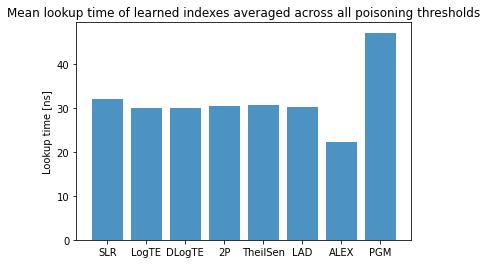
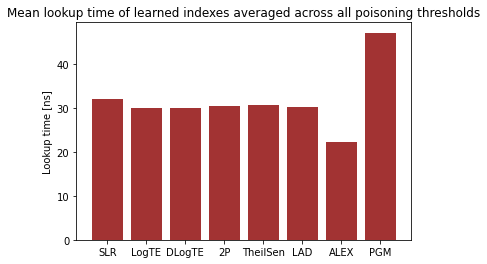
update blog post

Changed region(s): [[0.1848, 0.1212, 0.8316, 0.9091]]

diff --git a/_posts/2022-01-25-testing-the-robustness-of-learned-index-structures.md b/_posts/2022-01-25-testing-the-robustness-of-learned-index-structures.md
@@ -1,0 +1,73 @@
+---
+title: 'Testing the robustness of learned index structures'
+date: 2022-01-21
+permalink: /posts/2022/01/testing_the_robustness_of_learned_index_structures/
+tags:
+  - learned indexes
+  - database
+  - ALEX
+  - PGM
+  - machine learning
+---
+
+The database community has recently seen a massive surge in research to replace traditional database indexes such as B+ Trees with machine learning models (also called "learned index structures") to facilitate fast data retrieval.
+
+Databases rely on indexes to quickly locate and retrieve data that is stored on disks. While traditional database indexes use tree data structures such as B+ Trees to find the position of a given query key in the index, a learned index structure considers this problem as a prediction task and uses a machine learning model to “predict” the position of the query key. 
+
+Traditional and learned indexes                | ML models to approximate the CDF
+:---------------------------------------------:|:---------------------------------------------:
+![](/images/learned_indexes-comparison_1.png)  |  ![](/images/learned_indexes-comparison_2.png)
+
+This novel approach of implementing database indexes has inspired a surge of recent research aimed at studying the effectiveness of learned index structures. However, while the main advantage of learned index structures is their ability to adjust to the data via their underlying ML model, this also carries the risk of exploitation by a malicious adversary.
+
+This post will show some experiments that I have conducted as a follow-up to the research on [adversarial machine learning in the context of learned index structures](/publication/2021-12-08-adversarial-workload-matters) that was part of my master's thesis at The University of Melbourne.
+
+{% include toc %}
+
+# Previous work on "Executing a Large-Scale Poisoning Attack against Learned Index Structures"
+
+In my [master's thesis](/publication/2021-12-08-adversarial-workload-matters), I have executed a large-scale poisoning attack on dynamic learned index structures based on the CDF poisoning attack proposed by [Kornaropoulos et al.](https://arxiv.org/abs/2008.00297) The poisoning attack targets linear regression models and works by manipulating the cumulative distribution function (CDF) on which the model is trained. The attack deteriorates the fit of the underlying ML model by injecting a set of poisoning keys into the dataset, which leads to an increase in the prediction error of the model and thus deteriorates the overall performance of the learned index structure. The source code for the poisoning attack is available on [GitHub](https://github.com/Bachfischer/adversarial-ml-for-learned-indexes).
+
+As part of the experiments for my master's thesis, I evaluated three index implementations by measuring their throughput in million operations per second. The evaluated indexes consist of two learned index structures [ALEX](https://github.com/microsoft/ALEX) and [Dynamic-PGM](https://pgm.di.unipi.it/) as well as a traditional B+ Tree. Because indexes are usually used to speed-up data retrieval when dealing with massive amount of data, I chose to evaluate the performance of the indexes based on the [SOSD benchmark datasets](https://github.com/learnedsystems/SOSD/) that consist of 200 million keys each.
+
+Unfortunately, executing the poisoning attack by Kornaropoulos et al. is heavily computationally intensive, so I had to run them with a fixed poisoning threshold of $p=0.0001$, thus generating 20,000 poisoning keys for a dataset of 200 million keys. However, this poisoning threshold can be considered to be relatively low, and previous work on poisoning attacks has used poisoning thresholds of up-to $p=0.02$. 
+
+# Implementing a flexible microbenchmark for learned indexes
+
+To test the robustness of learned indexes more rigorously, I have decided to set-up a flexible microbenchmark that can be used to quickly evaluate the robustness of different index implementations against poisoning attacks. The microbenchmark is based on the source code that was published by [Eppert et al.](https://db.in.tum.de/~fent/papers/LogarithmicError.pdf?lang=en) which I have extended to implement the CDF poisoning attack against different types of regression models and the learned index implementations [ALEX](https://github.com/microsoft/ALEX) and [PGM-Index](https://pgm.di.unipi.it/).
+
+**The corresponding source code can be found here: [https://github.com/Bachfischer/LogarithmicErrorRegression](https://github.com/Bachfischer/LogarithmicErrorRegression).**
+
+# Testing the robustness of learned indexes
+
+![](/images/learned_indexes-data_pipeline.png)
+
+To test the robustness of the learned indexes, I have generated a synthetic dataset of 1000 keys and ran the poisoning attack against each index implementation while varying the poisoning threshold from $p=0.01$ to $p=0.20$. 
+
+The graphs below show the performance deterioration calculated as the ratio between the *mean lookup time in nanoseconds* for the legitimate (non-poisoned) dataset and the poisoned dataset. 
+
+SLR                                            | LogTE                                         | DLogTE                                        | 2P
+:---------------------------------------------:|:---------------------------------------------:|:---------------------------------------------:|:---------------------------------------------:
+![](/images/learned_indexes-mean_lookup_time-deterioration_slr.png)  | ![](/images/learned_indexes-mean_lookup_time-deterioration_logte.png) | ![](/images/learned_indexes-mean_lookup_time-deterioration_dlogte.png) |  ![](/images/learned_indexes-mean_lookup_time-deterioration_2p.png)
+
+TheilSen                                       | LAD                                           | ALEX                                          | PGM
+:---------------------------------------------:|:---------------------------------------------:|:---------------------------------------------:|:---------------------------------------------:
+![](/images/learned_indexes-mean_lookup_time-deterioration_theilsen.png)  | ![](/images/learned_indexes-mean_lookup_time-deterioration_lad.png) | ![](/images/learned_indexes-mean_lookup_time-deterioration_alex.png) |  ![](/images/learned_indexes-mean_lookup_time-deterioration_pgm.png)
+
+
+From the graphs, we can observe that simple linear regression (SLR) is particularly prone to the poisoning attack, as this regression model shows a steep increase in the mean lookup time when evaluated on the poisoned data. 
+
+The performance of the competitors that optimize a different error function such as LogTE, DLogTE and 2P (introduced in [A Tailored Regression for Learned Indexes](https://db.in.tum.de/~fent/papers/LogarithmicError.pdf?lang=en)) are more robust against adversarial attacks. For these regression models, the mean lookup time remains relatively stable even when the poisoning threshold is increased substantially. 
+
+Because SLR is the de-facto standard in learned index structures and used internally by the ALEX and the PGM-Index implementations, we would expect that these two models also exhibit a relatively high performance deterioration when evaluated on the poisoned dataset. Surprisingly, ALEX does not show any significant performance impact, most likely due to the usage of gapped arrays that allow the model to easily capture outliers in the data. The performance of the PGM-Index deteriorates by a factor of up-to 1.3x.
+
+
+To put things into a broader perspective, I have also calculated the overall mean lookup time for the evaluated learned indexes (averaged across all experiments) in the graph below.
+
+![](/images/learned_indexes-mean_lookup_time-average.png)
+
+We can see that ALEX dominates all learned index structures. The performance of the regression models SLR, LogTE, DLogTE, 2P, TheilSen and LAD is also relatively similar, in a range between 30 - 40 nanoseconds. 
+
+In the experiments, PGM-Index performs worst with a mean lookup time of > 50 nanoseconds. This is most likely due to the fact that PGM-Index is optimized for large-scale data workloads and exhibits subpar performance in this microbenchmark because the dataset consists of only 1000 keys.
+
+The consider the results from this research to be a highly interesting study of the robustness of learned index structures. The poisoning attack and microbenchmark described in this post are open-source and can be easily adapted for future research purposes. If you have any further thoughts or ideas, please let me know!
